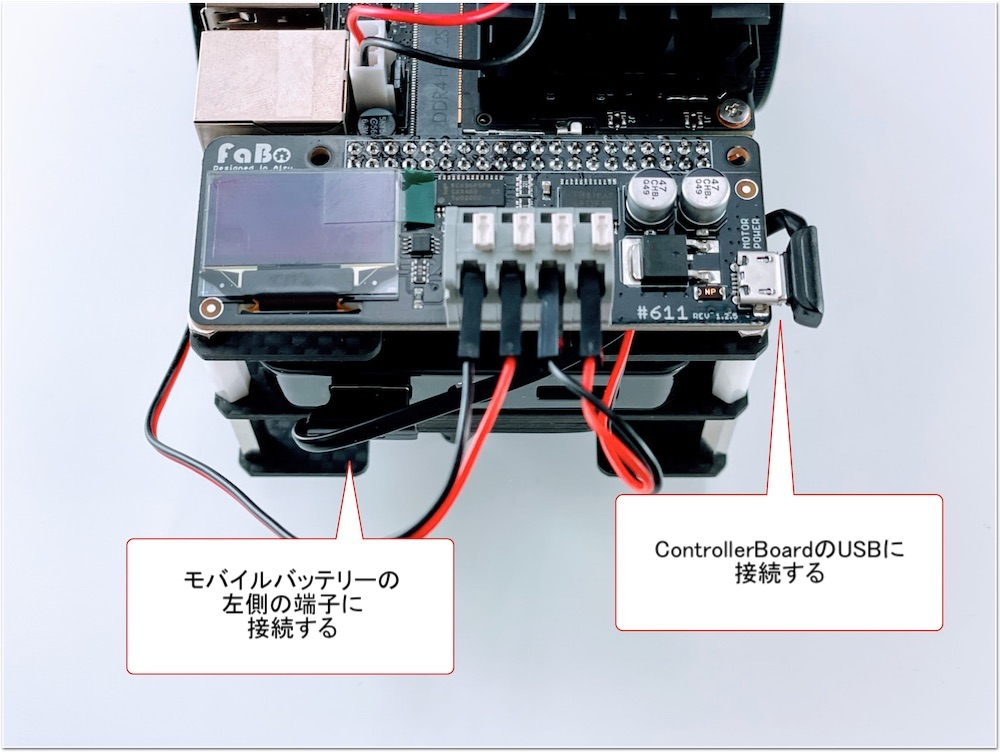
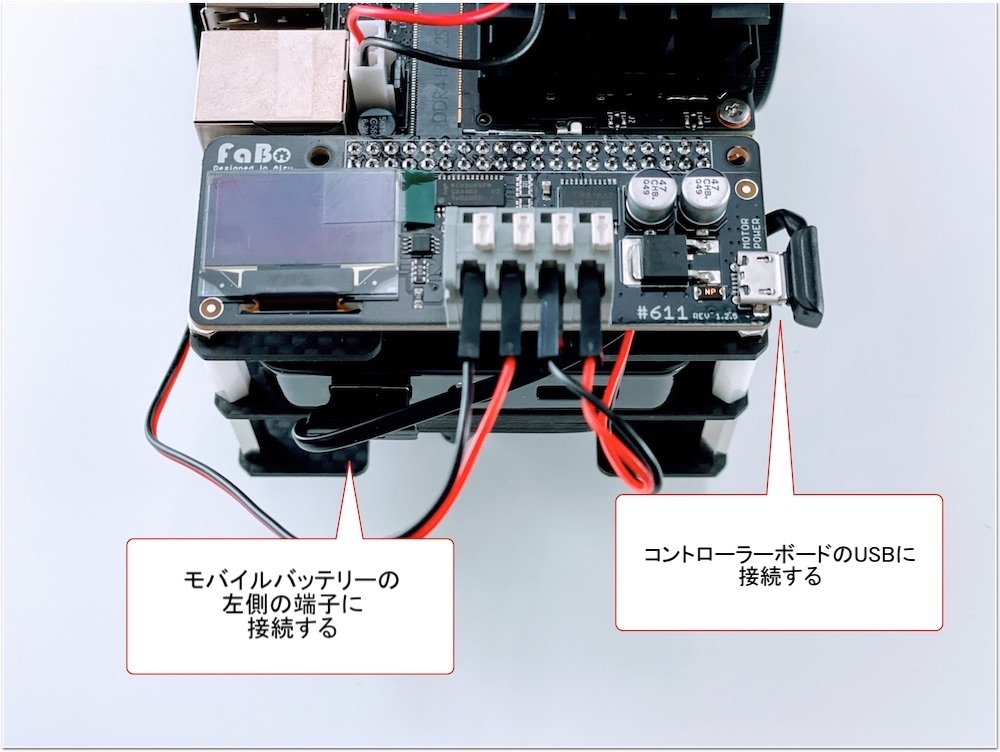
文言修正

Changed region(s): [[0.651, 0.7035, 0.899, 0.7952]]

diff --git a/docs/02.Building(Carbon)/4GB_model/C/JB_4GB-Carbon_X_C.md b/docs/02.Building(Carbon)/4GB_model/C/JB_4GB-Carbon_X_C.md
@@ -82,10 +82,10 @@ Wi-Fi支持パーツ剛性アップ
 |写真|部品または工具|個数|
 |:--|:--|:--:|
 |![](./../../img/caster_mini001.jpg){: style="height:210px;width:200px"}|ボールキャスター|1|
-|![](./../../img/add_(2)_caster_kotei001.jpg){: style="height:210px;width:200px"}|２．キャスター固定|１袋|
+|![](./../../img/add_(2)_caster_kotei001.jpg){: style="height:210px;width:200px"}|２．ボールキャスター固定|１袋|
 |![](./../../img/add_driverplus2_001.jpg){: style="height:210px;width:200px"}|プラスドライバー +2×100|１本|
 
-キャスターの組み立てをおこないます。
+ボールキャスターの組み立てをおこないます。
 
 ![](./../../img/caster001.jpg)
 
@@ -125,7 +125,7 @@ Wi-Fi支持パーツ剛性アップ
 
 ![](./../../img/BUILD/Build_JB_4GB_Carbon_C/build_prepairBallCaster.jpg)
 
-スペーサーを挟み、ネジでキャスター固定します。
+スペーサーを挟み、ネジでボールキャスター固定します。
 
 ![](./../../img/BUILD/Build_JB_4GB_Carbon_C/build_screwinsert.jpg)
 
@@ -143,7 +143,7 @@ M3ナットをはめて、ドライバーで４箇所締め付けます。
 
 <hr>
 
-## 5. 下段と中段のカーボンの取り付け
+## 5. カーボン下段とカーボン中段の連結
 
 <hr>
 
@@ -155,7 +155,7 @@ M3ナットをはめて、ドライバーで４箇所締め付けます。
 
 ![](./../../img/add_joint001.jpg)
 
-モーターの線も穴から出しておきます。
+モーターの線を穴から出しておきます。
 
 ![](./../../img/add_joint002.jpg)
 
@@ -235,7 +235,7 @@ Jetson固定ネジを取り付けます。
 |![](./../../img/BOM/BOM_JB_4GB_Carbon_C/bom_common_cameramount.jpg){: style="height:210px;width:200px"}|カメラマウント|１|
 |![](./../../img/BOM/BOM_JB_4GB_Carbon_C/bom_alminuim_wifiantena_supporter.jpg){: style="height:210px;width:200px"}|Wi-Fiアンテナ支持金具|1|
 |![](./../../img/add_spana001.jpg){: style="height:210px;width:200px"}|スパナ|1|
-|![](./../../img/add_semitudriverset001.jpg){: style="height:210px;width:200px"}|精密ドライバセット　ED−２０|1|
+|![](./../../img/add_semitudriverset001.jpg){: style="height:210px;width:200px"}|精密ドライバセットED−20|1|
 |![](./../../img/add_driverplus2_001.jpg){: style="height:210px;width:200px"}|プラスドライバー +2×100|1|
 
 Kitに搭載されているJetson Nanoが、``Rev.B01``か``Rev.A02``かを確認します。見分け方として、CSIカメラポートが2つ付いているのが``Rev.B01``で、1つしか付いていないのがRev.A02になります。
@@ -504,7 +504,7 @@ Wi-Fiアンテナのケーブルを結束バンドを使用してケーブルを
 
 ![](./../../img/etc_19/cable_forming_2.jpg)
 
-束ねたケーブルは、Jetson Nano開発者キットの基板の下へ格納します。
+束ねたケーブルは、Jetson Nano 開発者キットの基板の下へ格納します。
 
 ![](./../../img/etc_19/Jetson_forming_3.jpg)
 
